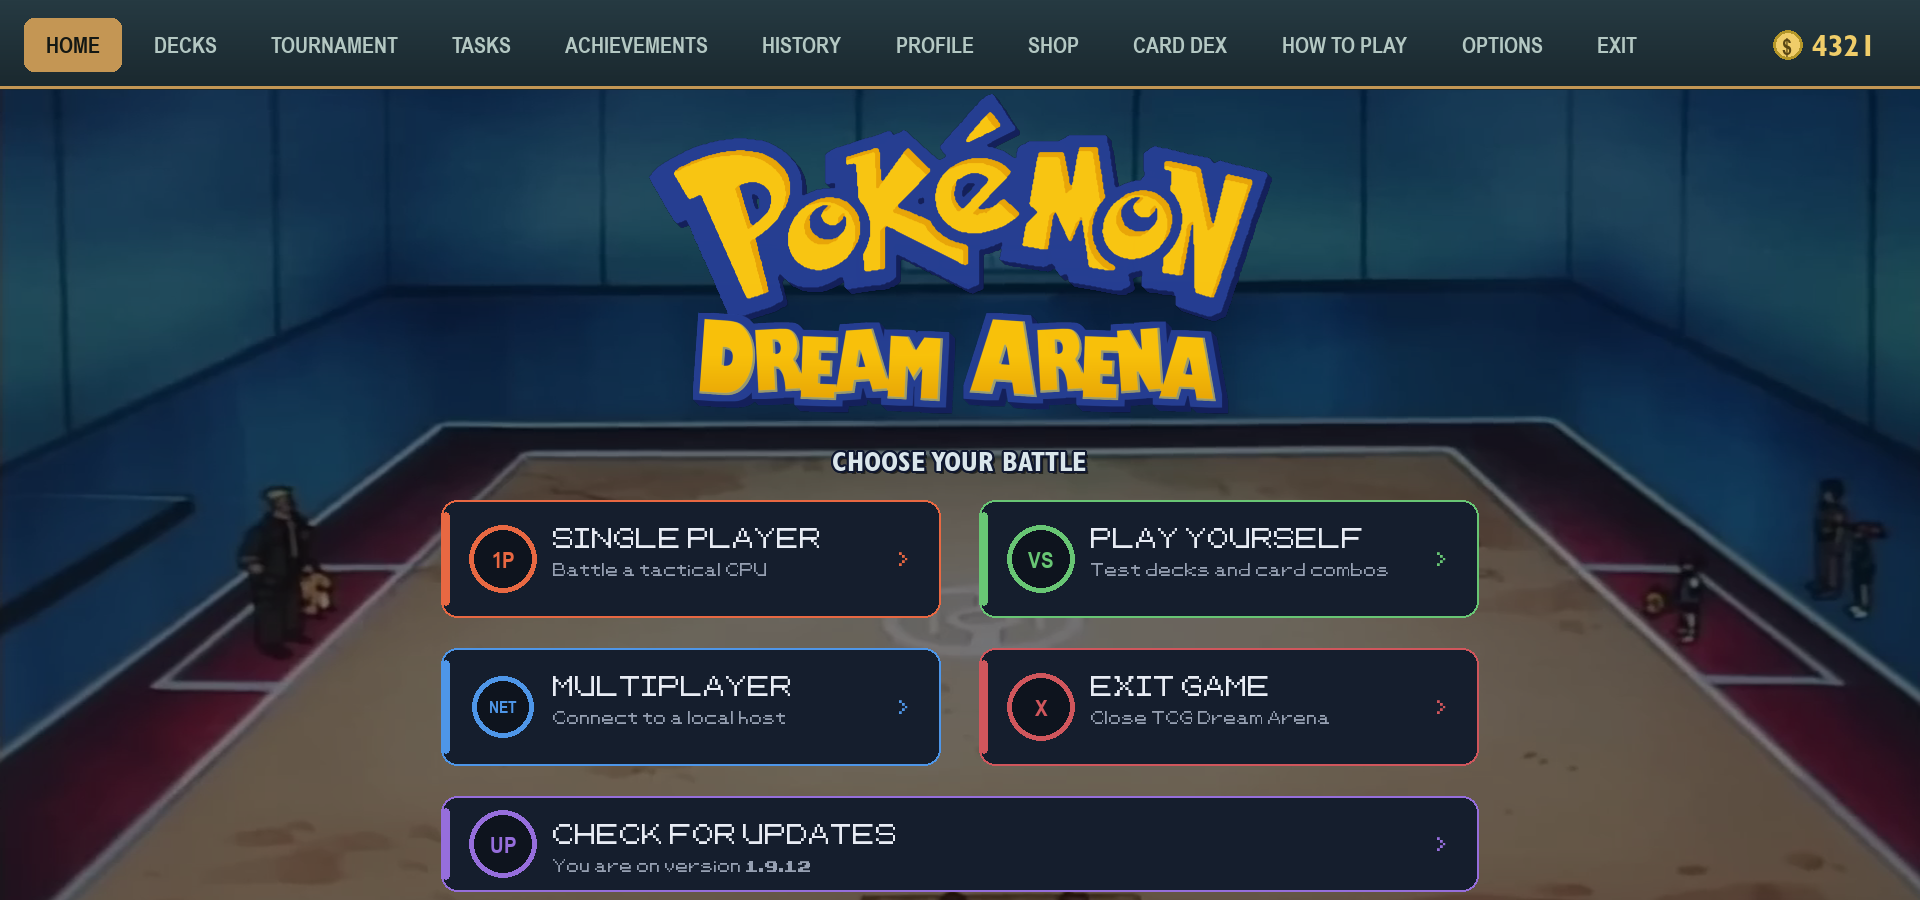
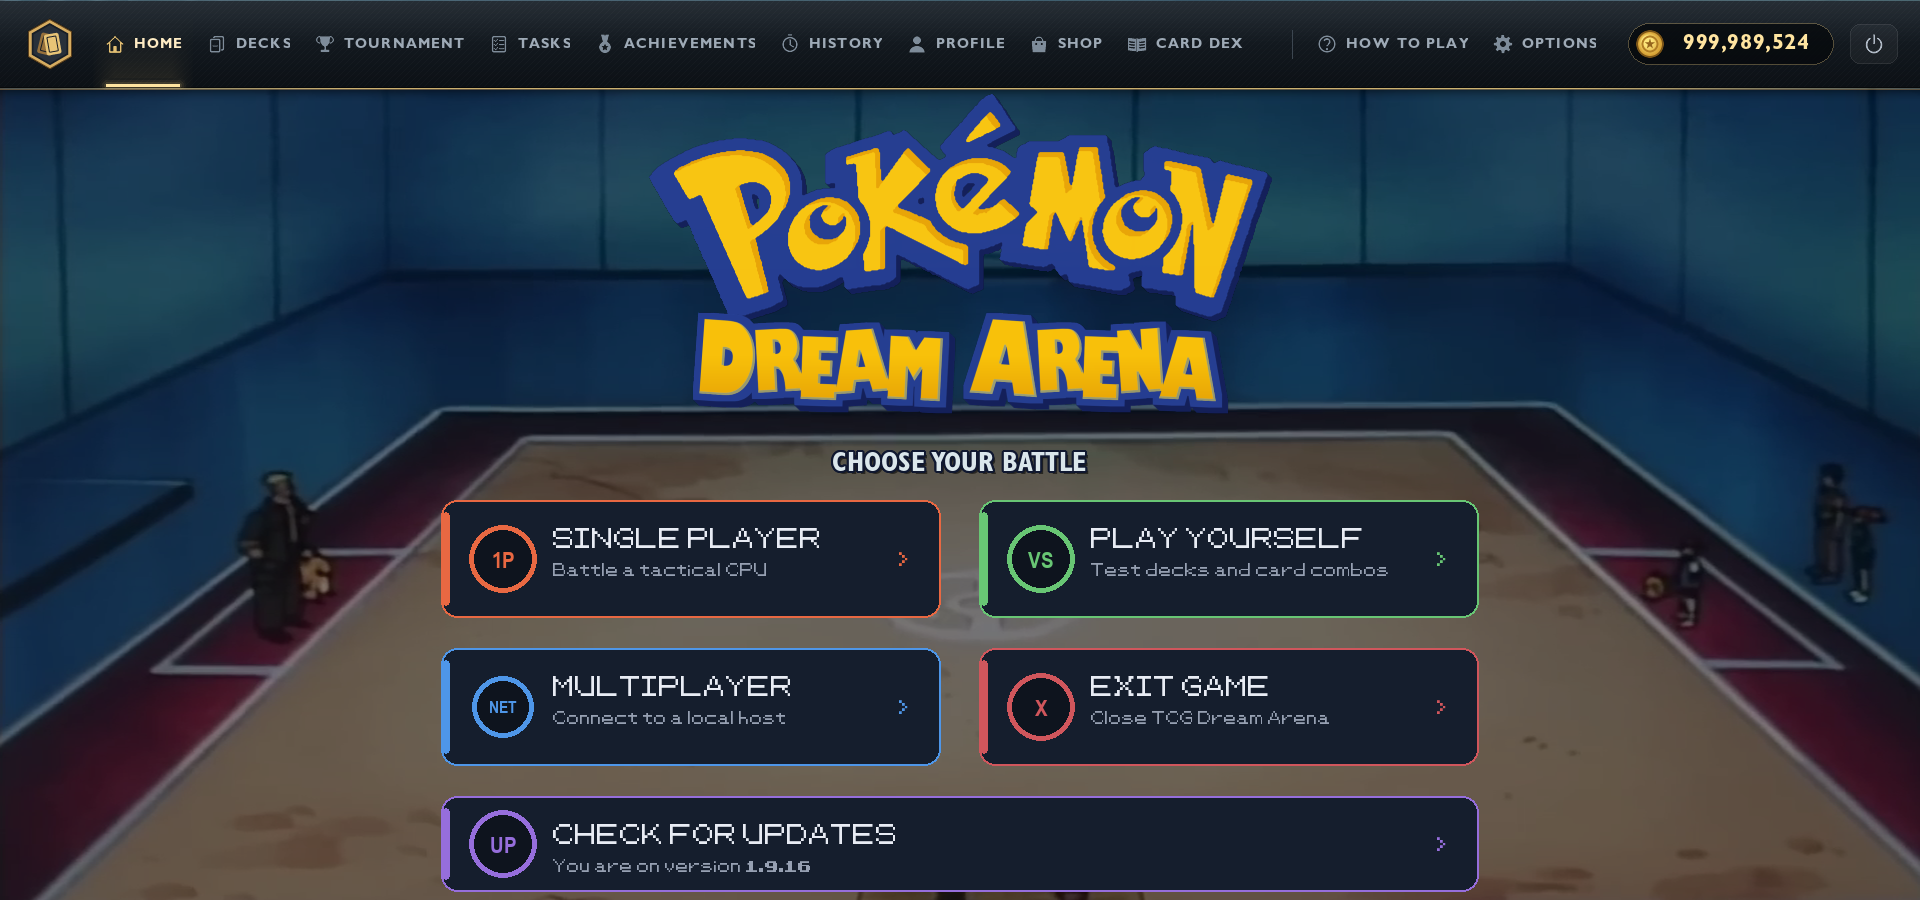
README: 1.9.17 features and new screenshots

diff --git a/README.md b/README.md
@@ -2,6 +2,9 @@
 
 <img src="screenshots/home.png" width="85%" alt="TCG Dream Arena home screen">
 
+<img src="screenshots/trainer_card.png" width="42%" alt="Trainer Card profile"> <img src="screenshots/decks.png" width="42%" alt="Decks"><br>
+<img src="screenshots/playmat.png" width="42%" alt="Battle on an animated playmat"> <img src="screenshots/creator.png" width="42%" alt="Character Creator">
+
 # TCG Dream Arena
 
 **A fan-made, classic-era Pokémon Trading Card Game for Windows.**
@@ -46,9 +49,14 @@ above once. It updates in place and keeps your saves.
 | 🏆 **Tournaments** | Bracket tournaments with entry fees and growing prizes. |
 | 🃏 **Collection & Card Dex** | Collect the classic sets, plus promos. Sort, filter and inspect every card. |
 | 🛒 **Shop & packs** | Earn coins by playing and spend them on booster packs, theme decks and singles. |
-| 🧰 **Deck builder** | Build, save and share decks with team codes. |
+| 🧰 **Decks** | 3D deck boxes with real cover art, favourites, clear "deck invalid" reasons, a full deck builder and test draws. Share decks with team codes. |
 | 🎯 **Tasks, achievements & profile** | Weekly tasks, achievements, avatar frames that level up with you, match history, win streaks. |
 | 🧪 **Play yourself** | Control both sides to test decks and card combos. |
+| 🧑🎤 **Character Creator** | Design your own anime-style trainer (male or female): hair, outfits, caps, accessories. Unlock extra wardrobe items with coins. |
+| 🪪 **Trainer Card** | A holo Trainer ID with your level, a badge case for Gym badges, a showcase for your 3 favourite cards, stats and medals. |
+| 🖼 **Level frames** | 11 hand-painted portrait frames from Trainer to Legendary, plus glowing prestige tiers. |
+| 🎴 **Playmats** | 21 animated, full-screen playmats: lava, ocean, forest, lightning, cosmic, marble and classic felt. |
+| 📦 **Pack opening** | Pull across the top of a pack to tear it open; Rare Holo pulls get a special holo reveal. |
 
 ### Faithful rules
 The game follows the original-era rules closely, including tricky cards:
